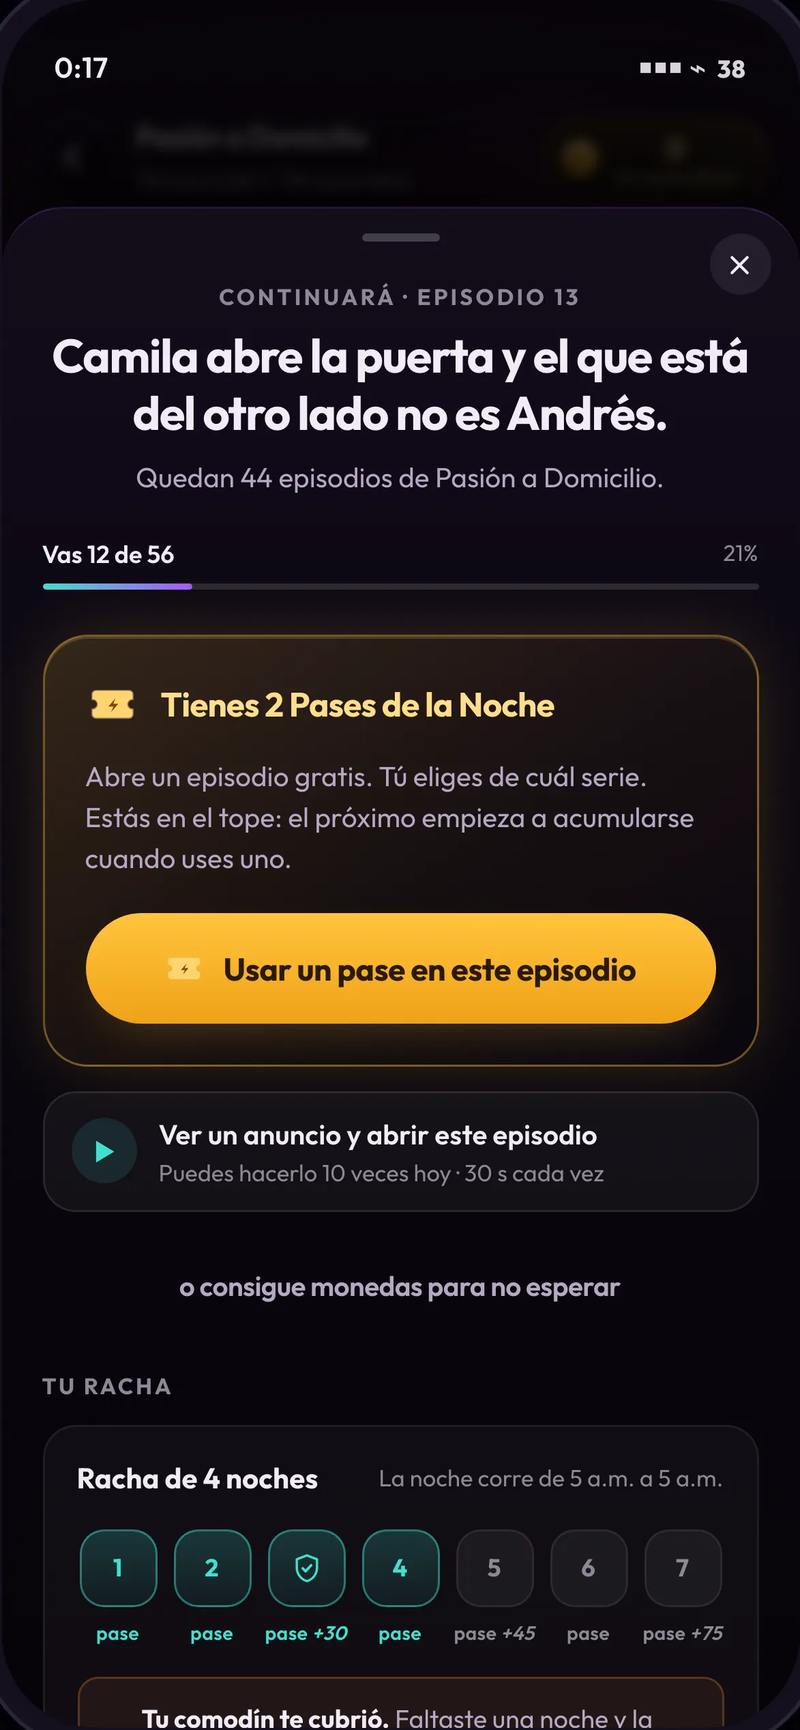
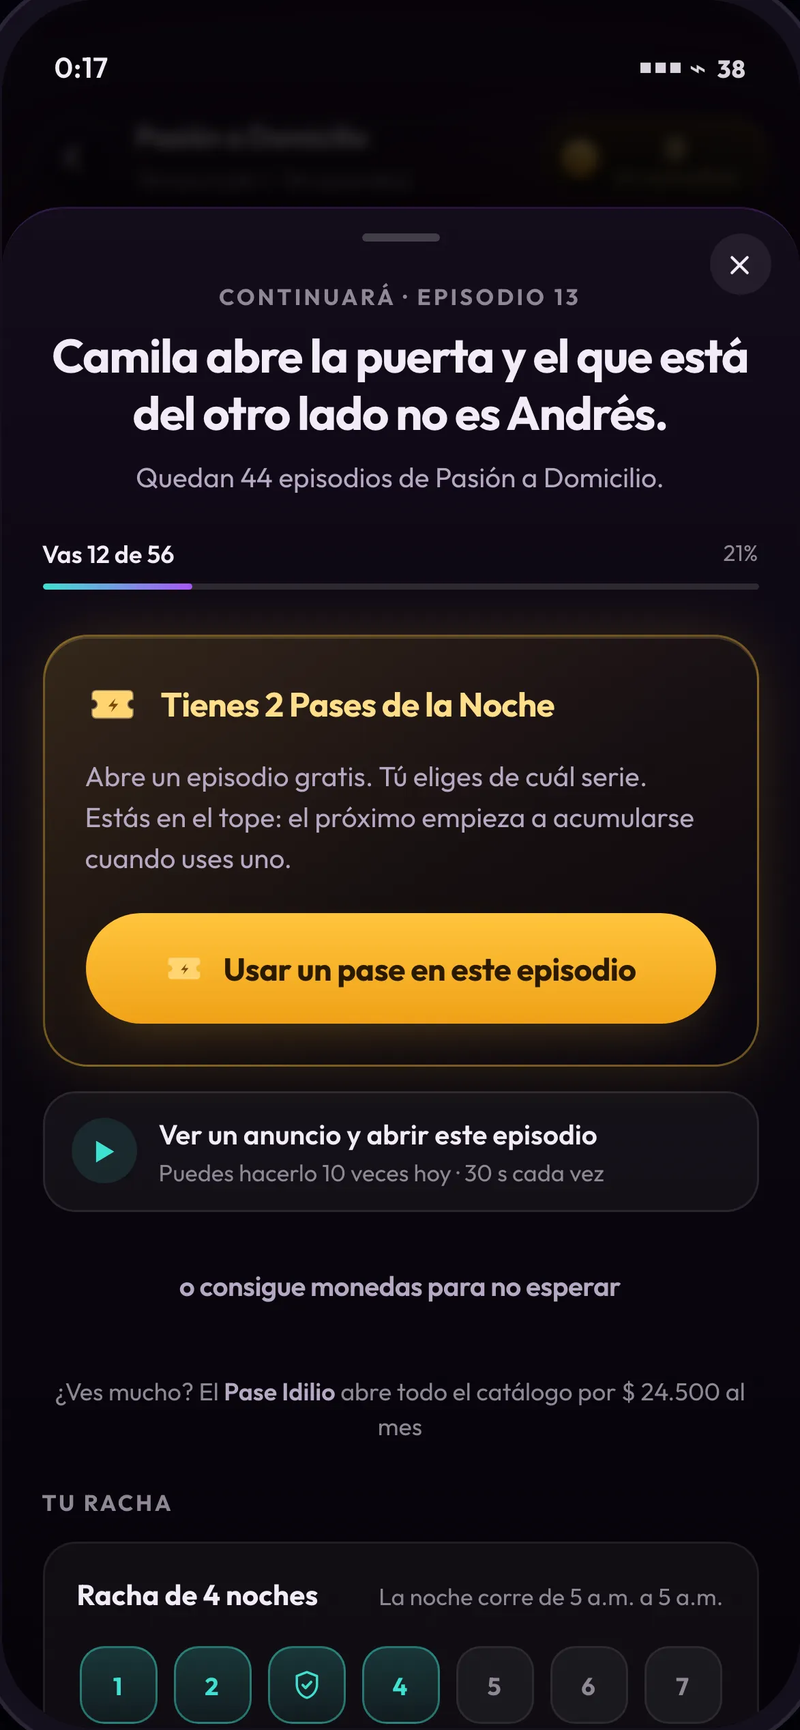
El archivo de diseño, la hoja de sistema y los flujos alcanzan al muro real
Las tres superficies que quedaban atrás. El prototipo ya tenía el
anuncio y la suscripción; el archivo que el README ofrece como
entregable de craft dibujaba el muro anterior.

FIGMA · dos componentes nuevos en «02 · Componentes», con la misma
construcción que los demás —Outfit, variables de color del archivo,
descripción en el componente—:

- **Tarjeta del anuncio.** Cian y no oro, porque el oro está racionado a
  la moneda y al Pase. Su descripción lleva la regla que le da sentido:
  nunca rotula el tope como «0/10», que cuenta anuncios; muestra el
  resultado de la cuenta.
- **Línea de suscripción.** Sin tarjeta, sin borde y sin oro: existe sin
  competir con las dos salidas gratuitas de encima.

Instanciados en los tres muros del archivo, en el orden de D2 —pase →
anuncio → compra → suscripción—. En B, la cita, el anuncio es
justamente la alternativa a esperar, así que va entre las dos.

Los muros B y F ya no caben en 844 con un elemento más, y en vez de
apretar el ritmo hasta romperlo usan la convención que el propio archivo
ya tenía para la ficha de serie: crecen a su alto natural y se llaman
«scroll completo».

SISTEMA · pasa de siete componentes a nueve, con la anatomía y las
reglas de los dos nuevos. Y sale el «No construí un design system», que
era la última primera persona del entregable.

FLUJOS · el export estaba desfasado: la captura publicada del home
mostraba dos pestañas, de antes de que volviera «Recompensas». Las 23
[…]

diff --git a/mobbin-export/index.html b/mobbin-export/index.html
@@ -159,13 +159,13 @@ code{color:var(--c);font-size:11.5px}
 <div class="chips"><span class="chip el">Bottom sheet</span><span class="chip el">Countdown timer</span><span class="chip el">Secondary card</span><span class="chip el">Primary button</span><span class="chip el">Streak strip</span></div>
 </article><article class="card">
 <a href="flows/f2-la-cita/01b-tras-el-anuncio.png" target="_blank" rel="noopener" title="Abrir a tamaño completo">
-<img src="flows/f2-la-cita/01b-tras-el-anuncio.webp" alt="Después del anuncio · la economía encadena" width="390" height="844" loading="lazy" decoding="async">
+<img src="flows/f2-la-cita/01b-tras-el-anuncio.webp" alt="Después del anuncio · el episodio ya está abierto" width="390" height="844" loading="lazy" decoding="async">
 </a>
-<div class="type">Paywall</div>
-<h3>Después del anuncio · la economía encadena</h3>
-<p class="note">La salida gratuita que el producto YA tenía y que este trabajo casi propone como si fuera nueva: el anuncio recompensado, 15 monedas, tope 10 al día. Lo que la intervención aporta no es el anuncio sino su sitio y su etiqueta. El producto lo rotula «0/10» en gris: una fracción sin unidad, que además cuenta anuncios y no episodios. Acá dice cuántas veces se puede hacer y lo que cuesta cada vez, y el título ya dice qué abre — así el valor se entiende sin mezclar las dos unidades. Y al usarlo pasa algo que no estaba diseñado: las 15 monedas activan «Abrirlo ahora por 15 monedas» como acción primaria, así que la pantalla cambia de estado sola. Es la mejor prueba de que las piezas de la economía encajan.</p>
-<div class="chips"><span class="chip">Rewarded ad</span><span class="chip">Ad-gated unlock</span><span class="chip">Quota translated</span><span class="chip">Countdown</span></div>
-<div class="chips"><span class="chip el">Bottom sheet</span><span class="chip el">Reward row</span><span class="chip el">Quota caption</span><span class="chip el">Primary button</span><span class="chip el">Countdown timer</span></div>
+<div class="type">Confirmation</div>
+<h3>Después del anuncio · el episodio ya está abierto</h3>
+<p class="note">La salida gratuita que el producto YA tenía y que este trabajo casi propone como si fuera nueva: el anuncio recompensado, tope de 10 al día. Lo que la intervención aporta no es el anuncio sino su sitio, su etiqueta y su número de pasos. El producto lo rotula «0/10» en gris —una fracción sin unidad, que además cuenta anuncios y no episodios— y al verlo acredita 15 monedas que el usuario todavía tiene que gastar en un segundo toque. Acá el anuncio ABRE el episodio: el botón promete «Ver un anuncio y abrir este episodio» y eso es exactamente lo que pasa. Un anuncio vale un episodio, así que la moneda en el medio no informaba nada — solo agregaba un paso a la única salida que este muro quiere hacer fácil. La emisión no cambia: 10 anuncios siguen siendo 10 episodios por día.</p>
+<div class="chips"><span class="chip">Rewarded ad</span><span class="chip">Ad-gated unlock</span><span class="chip">Quota translated</span><span class="chip">Success state</span></div>
+<div class="chips"><span class="chip el">Bottom sheet</span><span class="chip el">Icon</span><span class="chip el">Headline</span><span class="chip el">Quota caption</span><span class="chip el">Primary button</span></div>
 </article><article class="card">
 <a href="flows/f2-la-cita/02-muro-con-saldo.png" target="_blank" rel="noopener" title="Abrir a tamaño completo">
 <img src="flows/f2-la-cita/02-muro-con-saldo.webp" alt="Muro · con saldo suficiente" width="390" height="844" loading="lazy" decoding="async">
@@ -283,8 +283,8 @@ code{color:var(--c);font-size:11.5px}
 </article></div></section>
 <section class="tax"><h2>Taxonomía</h2><div class="taxgrid">
 <div><h3>Tipos de pantalla</h3><span class="chip">Account / Wallet</span> <span class="chip">Confirmation</span> <span class="chip">Detail</span> <span class="chip">Home / Browse</span> <span class="chip">Media player</span> <span class="chip">Paywall</span> <span class="chip">Selection</span> <span class="chip">Sign up</span> <span class="chip">Store</span> </div>
-<div><h3>Patrones</h3><span class="chip">Ad-gated unlock</span> <span class="chip">Anti-FOMO</span> <span class="chip">Appointment</span> <span class="chip">Balance spend</span> <span class="chip">Bottom sheet</span> <span class="chip">Chapter list</span> <span class="chip">Cliffhanger</span> <span class="chip">Content rails</span> <span class="chip">Contextual auth</span> <span class="chip">Continue watching</span> <span class="chip">Countdown</span> <span class="chip">Cross-content discovery</span> <span class="chip">Currency balance</span> <span class="chip">Forgiveness mechanic</span> <span class="chip">Guest-first</span> <span class="chip">IAP packs</span> <span class="chip">Ledger</span> <span class="chip">Loss aversion</span> <span class="chip">Milestone unlock</span> <span class="chip">Non-punitive feedback</span> <span class="chip">Opt-in notification</span> <span class="chip">Progress indicator</span> <span class="chip">Quota translated</span> <span class="chip">Resource cap</span> <span class="chip">Reward claim</span> <span class="chip">Reward reveal</span> <span class="chip">Rewarded ad</span> <span class="chip">Scarcity</span> <span class="chip">Server-rendered state</span> <span class="chip">Silent accrual</span> <span class="chip">Single select</span> <span class="chip">Source-sink model</span> <span class="chip">Streak</span> <span class="chip">Streak advance</span> <span class="chip">Streak protection</span> <span class="chip">Streak reset</span> <span class="chip">Swipe navigation</span> <span class="chip">Toast</span> <span class="chip">Unit-of-value translation</span> <span class="chip">Unlock cost</span> <span class="chip">Value ladder</span> <span class="chip">Vertical video</span> </div>
-<div><h3>Elementos</h3><span class="chip el">Action rail</span> <span class="chip el">Badge</span> <span class="chip el">Balance caption</span> <span class="chip el">Balance headline</span> <span class="chip el">Bottom sheet</span> <span class="chip el">Breakdown list</span> <span class="chip el">Chapter list</span> <span class="chip el">Chevron</span> <span class="chip el">Clock time</span> <span class="chip el">Countdown timer</span> <span class="chip el">Fine print</span> <span class="chip el">Goal row</span> <span class="chip el">Headline</span> <span class="chip el">Horizontal rail</span> <span class="chip el">Lock</span> <span class="chip el">Medal</span> <span class="chip el">Notice</span> <span class="chip el">Pack list</span> <span class="chip el">Poster</span> <span class="chip el">Price per unit</span> <span class="chip el">Price row</span> <span class="chip el">Primary button</span> <span class="chip el">Progress bar</span> <span class="chip el">Progress label</span> <span class="chip el">Quota caption</span> <span class="chip el">Radio list</span> <span class="chip el">Reminder toggle</span> <span class="chip el">Reward card</span> <span class="chip el">Reward lines</span> <span class="chip el">Reward row</span> <span class="chip el">Scrubber</span> <span class="chip el">Secondary card</span> <span class="chip el">Stat tiles</span> <span class="chip el">Status row</span> <span class="chip el">Streak strip</span> <span class="chip el">Synopsis</span> <span class="chip el">Tab bar</span> <span class="chip el">Text button</span> <span class="chip el">Thumbnail</span> <span class="chip el">Toast</span> <span class="chip el">Top bar</span> <span class="chip el">Total row</span> <span class="chip el">Video</span> <span class="chip el">Wallet chip</span> </div>
+<div><h3>Patrones</h3><span class="chip">Ad-gated unlock</span> <span class="chip">Anti-FOMO</span> <span class="chip">Appointment</span> <span class="chip">Balance spend</span> <span class="chip">Bottom sheet</span> <span class="chip">Chapter list</span> <span class="chip">Cliffhanger</span> <span class="chip">Content rails</span> <span class="chip">Contextual auth</span> <span class="chip">Continue watching</span> <span class="chip">Countdown</span> <span class="chip">Cross-content discovery</span> <span class="chip">Currency balance</span> <span class="chip">Forgiveness mechanic</span> <span class="chip">Guest-first</span> <span class="chip">IAP packs</span> <span class="chip">Ledger</span> <span class="chip">Loss aversion</span> <span class="chip">Milestone unlock</span> <span class="chip">Non-punitive feedback</span> <span class="chip">Opt-in notification</span> <span class="chip">Progress indicator</span> <span class="chip">Quota translated</span> <span class="chip">Resource cap</span> <span class="chip">Reward claim</span> <span class="chip">Reward reveal</span> <span class="chip">Rewarded ad</span> <span class="chip">Scarcity</span> <span class="chip">Server-rendered state</span> <span class="chip">Silent accrual</span> <span class="chip">Single select</span> <span class="chip">Source-sink model</span> <span class="chip">Streak</span> <span class="chip">Streak advance</span> <span class="chip">Streak protection</span> <span class="chip">Streak reset</span> <span class="chip">Success state</span> <span class="chip">Swipe navigation</span> <span class="chip">Toast</span> <span class="chip">Unit-of-value translation</span> <span class="chip">Unlock cost</span> <span class="chip">Value ladder</span> <span class="chip">Vertical video</span> </div>
+<div><h3>Elementos</h3><span class="chip el">Action rail</span> <span class="chip el">Badge</span> <span class="chip el">Balance caption</span> <span class="chip el">Balance headline</span> <span class="chip el">Bottom sheet</span> <span class="chip el">Breakdown list</span> <span class="chip el">Chapter list</span> <span class="chip el">Chevron</span> <span class="chip el">Clock time</span> <span class="chip el">Countdown timer</span> <span class="chip el">Fine print</span> <span class="chip el">Goal row</span> <span class="chip el">Headline</span> <span class="chip el">Horizontal rail</span> <span class="chip el">Icon</span> <span class="chip el">Lock</span> <span class="chip el">Medal</span> <span class="chip el">Notice</span> <span class="chip el">Pack list</span> <span class="chip el">Poster</span> <span class="chip el">Price per unit</span> <span class="chip el">Price row</span> <span class="chip el">Primary button</span> <span class="chip el">Progress bar</span> <span class="chip el">Progress label</span> <span class="chip el">Quota caption</span> <span class="chip el">Radio list</span> <span class="chip el">Reminder toggle</span> <span class="chip el">Reward card</span> <span class="chip el">Reward lines</span> <span class="chip el">Scrubber</span> <span class="chip el">Secondary card</span> <span class="chip el">Stat tiles</span> <span class="chip el">Status row</span> <span class="chip el">Streak strip</span> <span class="chip el">Synopsis</span> <span class="chip el">Tab bar</span> <span class="chip el">Text button</span> <span class="chip el">Thumbnail</span> <span class="chip el">Toast</span> <span class="chip el">Top bar</span> <span class="chip el">Total row</span> <span class="chip el">Video</span> <span class="chip el">Wallet chip</span> </div>
 </div></section>
 </main>
 <footer>Capturado automáticamente de los prototipos con <code>poc/scripts/export-mobbin.mjs</code>.

diff --git a/mobbin-export/README.md b/mobbin-export/README.md
@@ -64,12 +64,12 @@ El muro deja de ser un final y pasa a ser una hora. El countdown es el motivo de
 | # | Pantalla | Tipo | Patrones |
 |---|---|---|---|
 | 1 | [Muro · faltan horas para el próximo pase](flows/f2-la-cita/01-muro-pase-gastado.png) | Paywall | Countdown, Appointment, Streak, Bottom sheet |
-| 2 | [Después del anuncio · la economía encadena](flows/f2-la-cita/01b-tras-el-anuncio.png) | Paywall | Rewarded ad, Ad-gated unlock, Quota translated, Countdown |
+| 2 | [Después del anuncio · el episodio ya está abierto](flows/f2-la-cita/01b-tras-el-anuncio.png) | Confirmation | Rewarded ad, Ad-gated unlock, Quota translated, Success state |
 | 3 | [Muro · con saldo suficiente](flows/f2-la-cita/02-muro-con-saldo.png) | Paywall | Balance spend, Countdown, Streak |
 
 **Muro · faltan horas para el próximo pase** — El countdown ocupa el lugar jerárquico que antes tenía el precio. La compra queda debajo, como atajo, no como única salida.
 
-**Después del anuncio · la economía encadena** — La salida gratuita que el producto YA tenía y que este trabajo casi propone como si fuera nueva: el anuncio recompensado, 15 monedas, tope 10 al día. Lo que la intervención aporta no es el anuncio sino su sitio y su etiqueta. El producto lo rotula «0/10» en gris: una fracción sin unidad, que además cuenta anuncios y no episodios. Acá dice cuántas veces se puede hacer y lo que cuesta cada vez, y el título ya dice qué abre — así el valor se entiende sin mezclar las dos unidades. Y al usarlo pasa algo que no estaba diseñado: las 15 monedas activan «Abrirlo ahora por 15 monedas» como acción primaria, así que la pantalla cambia de estado sola. Es la mejor prueba de que las piezas de la economía encajan.
+**Después del anuncio · el episodio ya está abierto** — La salida gratuita que el producto YA tenía y que este trabajo casi propone como si fuera nueva: el anuncio recompensado, tope de 10 al día. Lo que la intervención aporta no es el anuncio sino su sitio, su etiqueta y su número de pasos. El producto lo rotula «0/10» en gris —una fracción sin unidad, que además cuenta anuncios y no episodios— y al verlo acredita 15 monedas que el usuario todavía tiene que gastar en un segundo toque. Acá el anuncio ABRE el episodio: el botón promete «Ver un anuncio y abrir este episodio» y eso es exactamente lo que pasa. Un anuncio vale un episodio, así que la moneda en el medio no informaba nada — solo agregaba un paso a la única salida que este muro quiere hacer fácil. La emisión no cambia: 10 anuncios siguen siendo 10 episodios por día.
 
 **Muro · con saldo suficiente** — Con saldo, la acción de pago sube a primaria — pero el saldo restante se declara en episodios, no en monedas.
 
@@ -142,6 +142,6 @@ La misma mecánica implementada en Next.js App Router + Tailwind v4 + Supabase, 
 
 **Tipos de pantalla:** Account / Wallet · Confirmation · Detail · Home / Browse · Media player · Paywall · Selection · Sign up · Store
 
-**Patrones:** Ad-gated unlock · Anti-FOMO · Appointment · Balance spend · Bottom sheet · Chapter list · Cliffhanger · Content rails · Contextual auth · Continue watching · Countdown · Cross-content discovery · Currency balance · Forgiveness mechanic · Guest-first · IAP packs · Ledger · Loss aversion · Milestone unlock · Non-punitive feedback · Opt-in notification · Progress indicator · Quota translated · Resource cap · Reward claim · Reward reveal · Rewarded ad · Scarcity · Server-rendered state · Silent accrual · Single select · Source-sink model · Streak · Streak advance · Streak protection · Streak reset · Swipe navigation · Toast · Unit-of-value translation · Unlock cost · Value ladder · Vertical video
+**Patrones:** Ad-gated unlock · Anti-FOMO · Appointment · Balance spend · Bottom sheet · Chapter list · Cliffhanger · Content rails · Contextual auth · Continue watching · Countdown · Cross-content discovery · Currency balance · Forgiveness mechanic · Guest-first · IAP packs · Ledger · Loss aversion · Milestone unlock · Non-punitive feedback · Opt-in notification · Progress indicator · Quota translated · Resource cap · Reward claim · Reward reveal · Rewarded ad · Scarcity · Server-rendered state · Silent accrual · Single select · Source-sink model · Streak · Streak advance · Streak protection · Streak reset · Success state · Swipe navigation · Toast · Unit-of-value translation · Unlock cost · Value ladder · Vertical video
 
-**Elementos:** Action rail · Badge · Balance caption · Balance headline · Bottom sheet · Breakdown list · Chapter list · Chevron · Clock time · Countdown timer · Fine print · Goal row · Headline · Horizontal rail · Lock · Medal · Notice · Pack list · Poster · Price per unit · Price row · Primary button · Progress bar · Progress label · Quota caption · Radio list · Reminder toggle · Reward card · Reward lines · Reward row · Scrubber · Secondary card · Stat tiles · Status row · Streak strip · Synopsis · Tab bar · Text button · Thumbnail · Toast · Top bar · Total row · Video · Wallet chip
+**Elementos:** Action rail · Badge · Balance caption · Balance headline · Bottom sheet · Breakdown list · Chapter list · Chevron · Clock time · Countdown timer · Fine print · Goal row · Headline · Horizontal rail · Icon · Lock · Medal · Notice · Pack list · Poster · Price per unit · Price row · Primary button · Progress bar · Progress label · Quota caption · Radio list · Reminder toggle · Reward card · Reward lines · Scrubber · Secondary card · Stat tiles · Status row · Streak strip · Synopsis · Tab bar · Text button · Thumbnail · Toast · Top bar · Total row · Video · Wallet chip

diff --git a/docs/03-diseno/sistema.md b/docs/03-diseno/sistema.md
@@ -1,6 +1,6 @@
 # Sistema visual
 
-No construí un design system (un sistema de diseño completo: la biblioteca de piezas y reglas de la que sale cualquier pantalla futura) — el brief no lo pide y habría sido tiempo mal gastado. Construí lo mínimo que hace falta para que trece pantallas se vean como una sola cosa: **42 tokens —los valores del sistema, colores y tipografías y espacios, con nombre propio— y siete componentes.**
+Este entregable no incluye un design system (un sistema de diseño completo: la biblioteca de piezas y reglas de la que sale cualquier pantalla futura) — el brief no lo pide y habría sido tiempo mal gastado. Construí lo mínimo que hace falta para que trece pantallas se vean como una sola cosa: **42 tokens —los valores del sistema, colores y tipografías y espacios, con nombre propio— y nueve componentes.**
 
 Los tokens están en [`tokens.json`](tokens.json), en formato W3C Design Tokens, y se **generan desde el CSS del prototipo** (`npm run tokens`). El CSS es la fuente de verdad; el archivo de tokens se deriva de él y por construcción no puede desincronizarse.
 
@@ -42,7 +42,7 @@ Corolarios:
 
 ---
 
-## Los siete componentes
+## Los nueve componentes
 
 ### 1 · Chip de saldo (`.wallet`)
 La única huella permanente del metajuego dentro del reproductor.
@@ -81,18 +81,36 @@ Jerarquía deliberadamente invertida respecto de cualquier tienda: **episodios g
 
 **Variantes:** normal · destacado (`best`, borde violeta) · bienvenida (`intro`, borde punteado dorado — punteado porque es una oferta que no se repite).
 
-### 6 · Fila de elección (`.choice`)
+### 6 · Tarjeta del anuncio (`.anuncio`)
+La salida gratuita que el producto **ya tiene** y que el muro real entierra bajo la suscripción. Aquí va segunda, debajo del Pase.
+
+**Anatomía:** icono de play en círculo cian · titular *«Ver un anuncio y abrir este episodio»* · subtítulo con **los episodios que quedan hoy, no la fracción**.
+
+**Regla, y es la que le da sentido al componente:** nunca rotula el tope como `0/10`. Ese contador cuenta anuncios —la unidad que menos le importa al usuario— y hay que multiplicar por 15 y dividir por 15 para llegar a lo que sí le importa. El componente hace esa cuenta y muestra el resultado: *«Te quedan 10 episodios gratis hoy»*.
+
+**Por qué cian y no oro:** el oro está racionado a la moneda y al Pase. El anuncio es gratis pero no es del usuario todavía — cuesta treinta segundos. El cian lo marca como salida sin cobrarle la jerarquía al Pase.
+
+**Estados:** disponible (con la cifra que queda) · agotado (no se renderiza; el tope diario se acabó).
+
+### 7 · Línea de suscripción (`.sub-linea`)
+Último elemento de la hoja, y a propósito el más callado: texto centrado, sin tarjeta, sin borde y sin oro.
+
+**Contenido:** *«¿Ves mucho? El Pase Idilio abre todo el catálogo por $ 24.500 al mes»*.
+
+**La decisión que representa:** el muro real abre con esto —dos tarjetas grandes, el mensual marcado *RECOMENDADO*— y deja la salida gratuita abajo. Invertir ese orden no significa esconder la suscripción: el producto la vende y quien ve mucho merece saber que existe. Significa que deje de ser lo primero que lee alguien a quien le faltan quince monedas.
+
+### 8 · Fila de elección (`.choice`)
 Miniatura · título · próximo episodio en dorado · progreso · radio.
 Un solo seleccionable a la vez. La selección se marca con borde dorado **y** radio lleno.
 
-### 7 · Botones
+### 9 · Botones
 Tres niveles, y el nivel comunica quién paga:
 
 | | Uso | Superficie |
 |---|---|---|
 | `btn-gold` | Usar el pase | Degradado dorado, texto oscuro |
 | `btn-violet` | Pagar con monedas, comprar, continuar | Degradado violeta |
-| `btn-text` | Alternativa que no queremos empujar | Solo texto |
+| `btn-text` | Alternativa que no conviene empujar | Solo texto |
 
 Altura 54 px (50 en secundarios). Todo cae en el tercio inferior de la pantalla, alcanzable con el pulgar.
 

diff --git a/docs/03-diseno/README.md b/docs/03-diseno/README.md
@@ -5,7 +5,7 @@
 > **Una frase:** el muro de desbloqueo deja de ser el final de la sesión y pasa a ser una cita con hora, en la historia que el usuario ya está viendo.
 
 **En este apartado:** la justificación de la elección · la mecánica · el diagrama de flujo · nueve decisiones de diseño · la revisión crítica del precedente · el modelo económico · los riesgos técnicos.
-**Además:** [el archivo de diseño en Figma](https://www.figma.com/design/CCI8plwuWvfTV8VBpowN5X) — 10 pantallas, 4 componentes y las variables enlazadas, construido de forma nativa. La guía de lectura de esas pantallas y el sistema visual —42 tokens (los valores del sistema: colores, tipografías y espacios, con nombre propio) y 9 componentes— están en [Sistema y archivo de diseño](sistema.md). Los tokens, en [`tokens.json`](tokens.json).
+**Además:** [el archivo de diseño en Figma](https://www.figma.com/design/CCI8plwuWvfTV8VBpowN5X) — 10 pantallas, 6 componentes y las variables enlazadas, construido de forma nativa. La guía de lectura de esas pantallas y el sistema visual —42 tokens (los valores del sistema: colores, tipografías y espacios, con nombre propio) y 9 componentes— están en [Sistema y archivo de diseño](sistema.md). Los tokens, en [`tokens.json`](tokens.json).
 
 ---
 

diff --git a/README.md b/README.md
@@ -16,7 +16,7 @@
 | **Prototipo** — home, catálogo, ficha de serie y el muro | **https://gabrielardzj.github.io/idilio-tv/** |
 | **Diagnóstico y estrategia** — los entregables de texto | **https://gabrielardzj.github.io/idilio-tv/docs/diagnostico.html** |
 | **Export de flujos** — 23 pantallas en 8 flujos | **https://gabrielardzj.github.io/idilio-tv/flujos/** |
-| **Archivo de diseño** — 10 pantallas, 4 componentes y las variables, nativas de Figma | **https://www.figma.com/design/CCI8plwuWvfTV8VBpowN5X** |
+| **Archivo de diseño** — 10 pantallas, 6 componentes y las variables, nativas de Figma | **https://www.figma.com/design/CCI8plwuWvfTV8VBpowN5X** |
 | **Diseño** — el sistema visual y cómo leer ese archivo | **https://gabrielardzj.github.io/idilio-tv/docs/diseno.html** |
 | **Sobre el stack real de Idilio** | **https://gabrielardzj.github.io/idilio-tv/stack/** |
 
